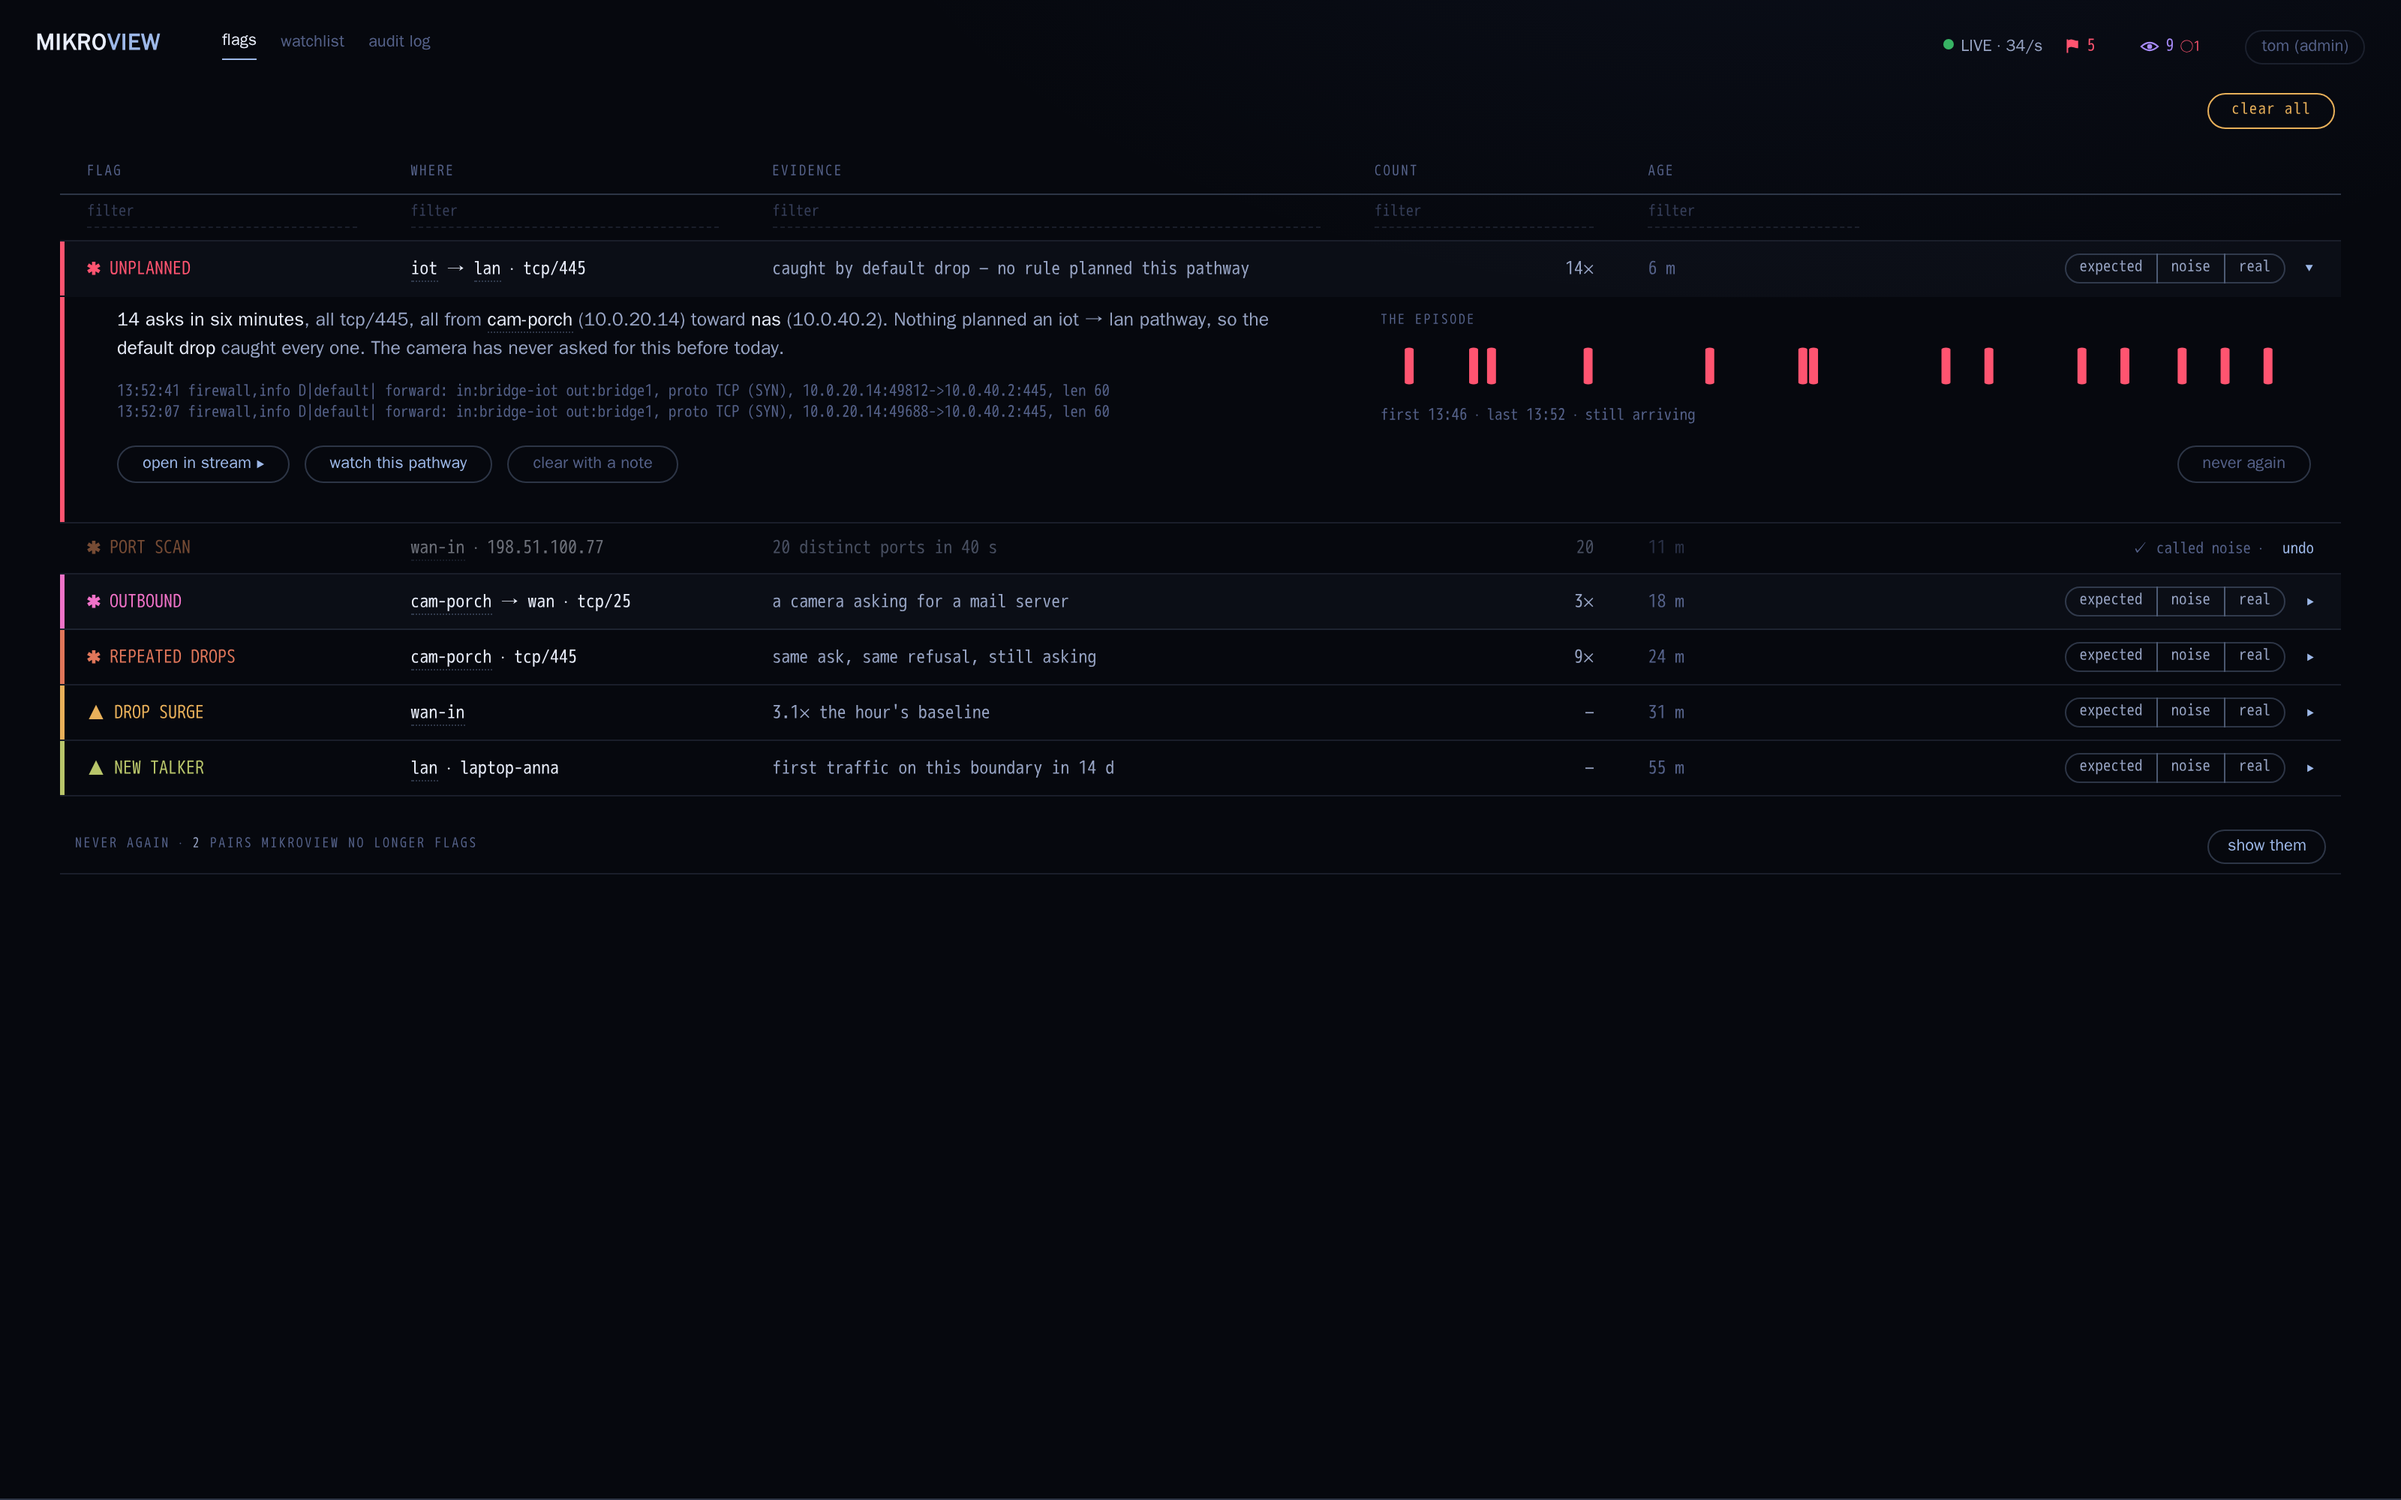
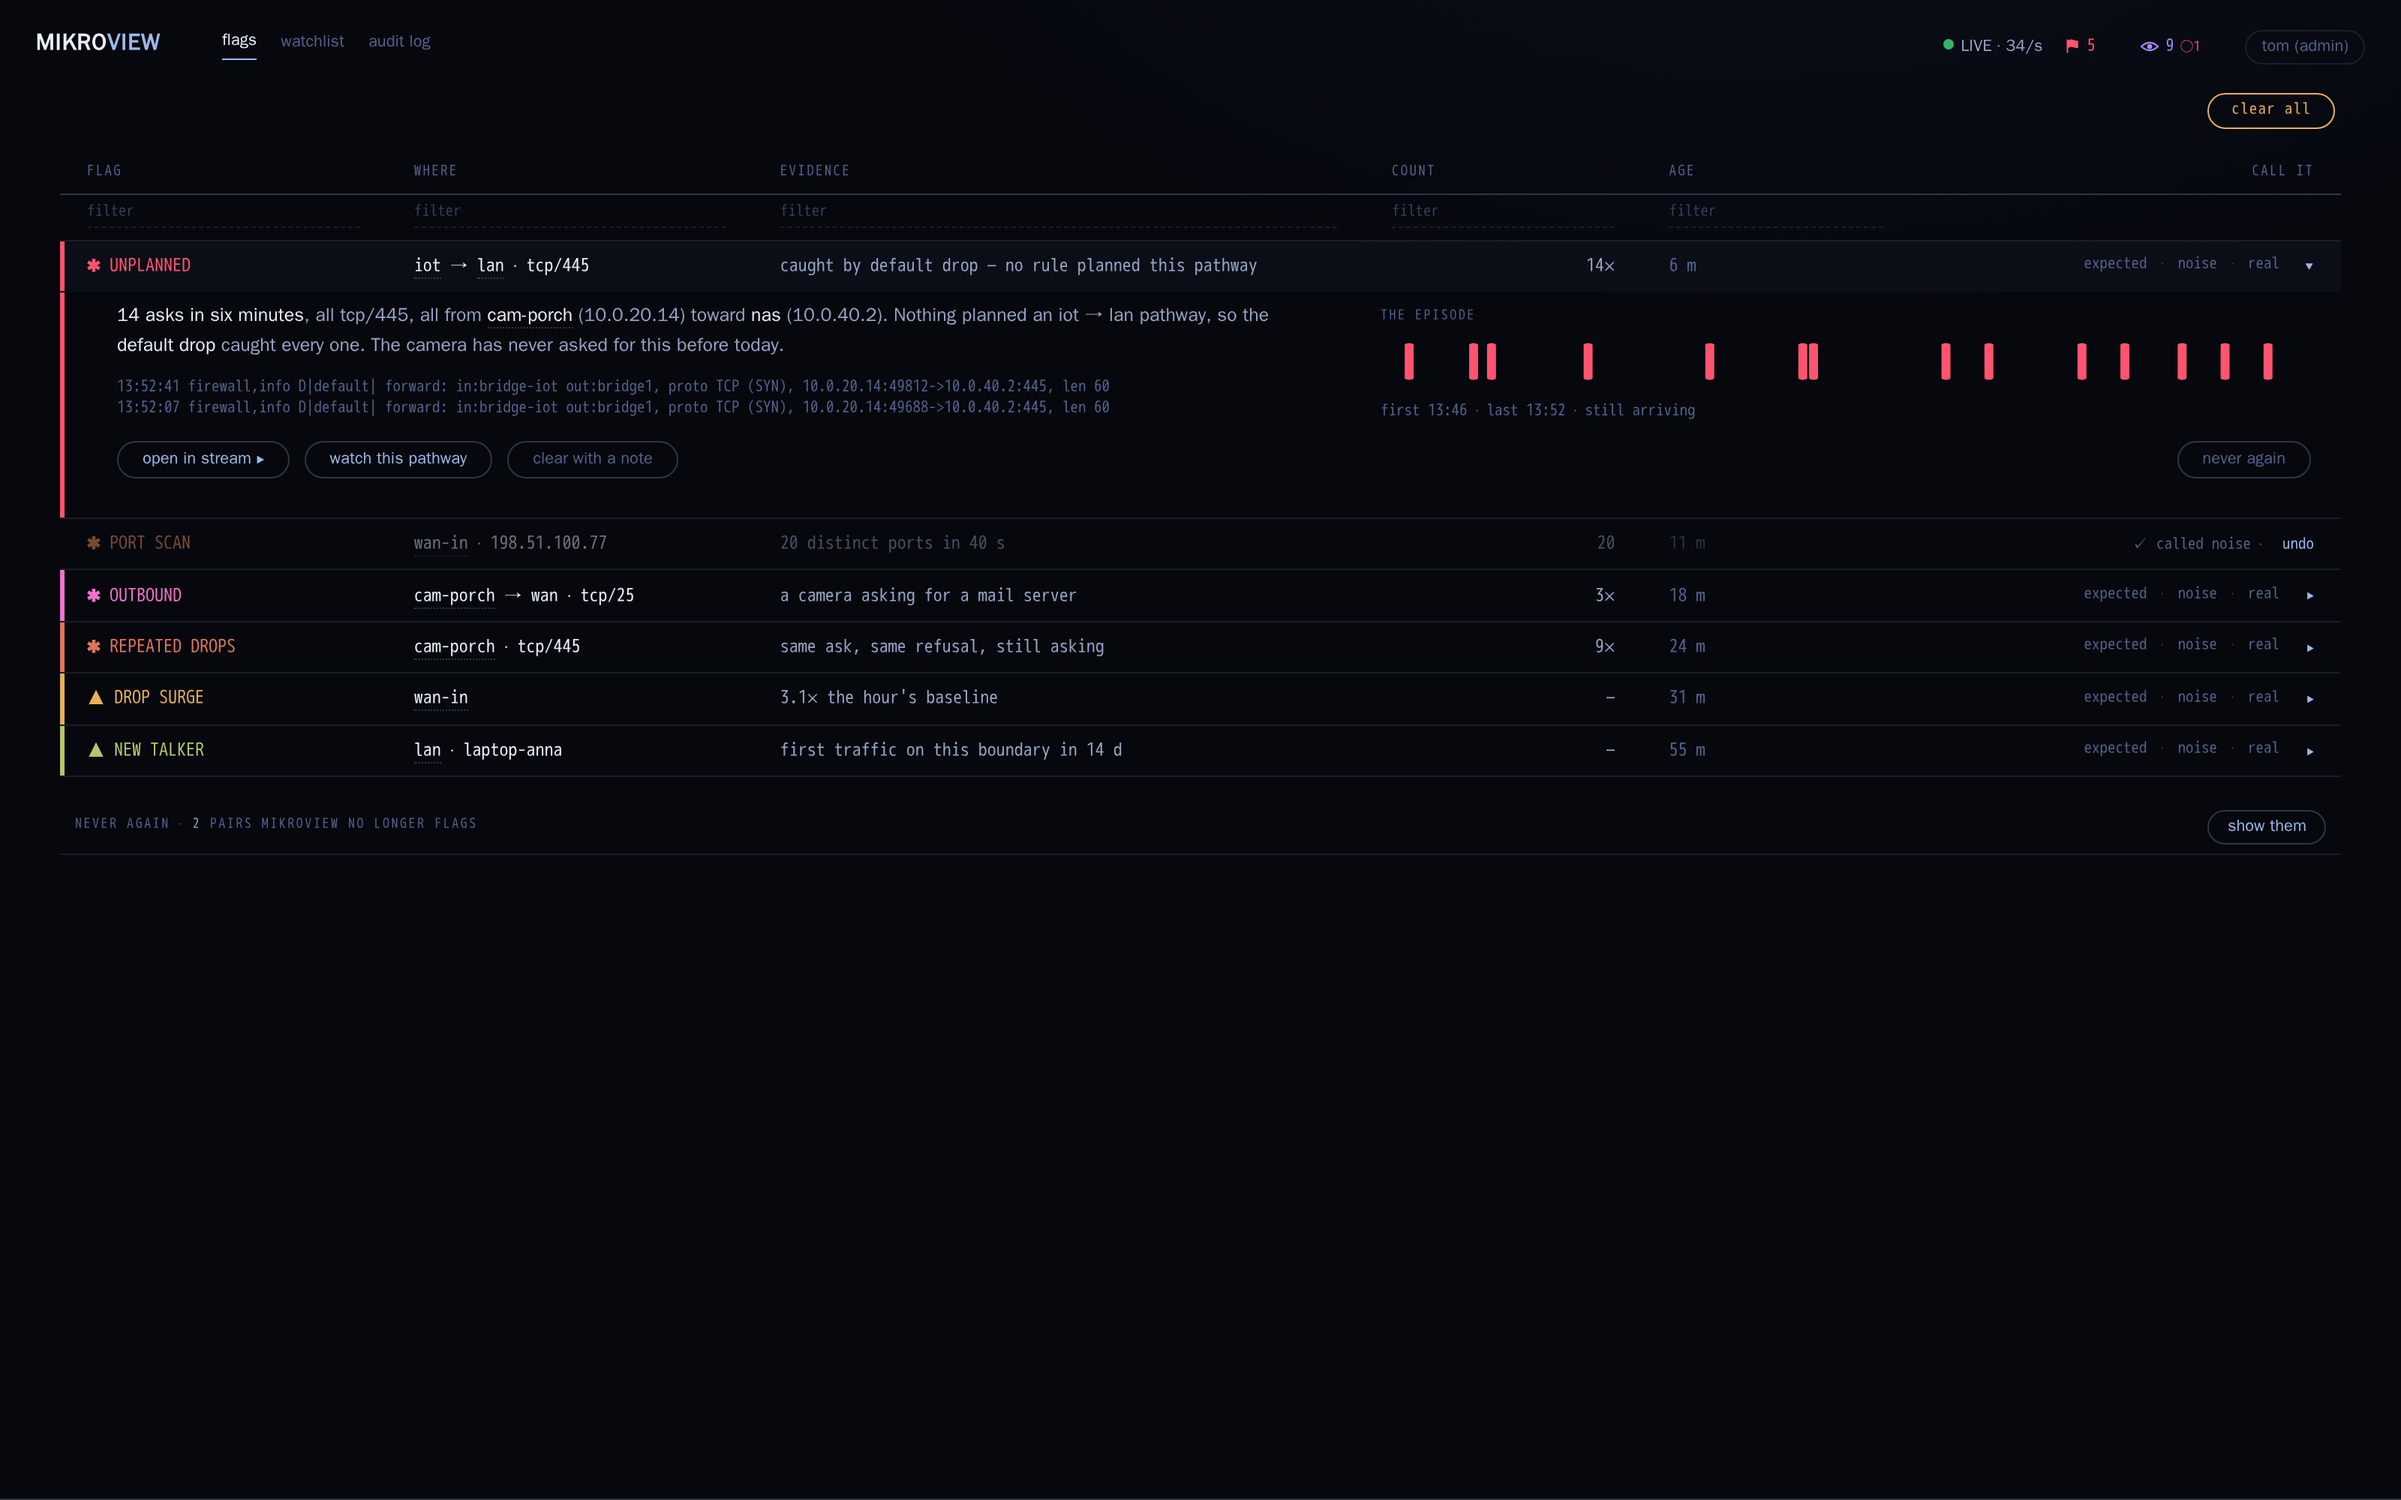
docs(design): round 35 — the row's verdicts as quiet text verbs (#691)
Owner asked for the row trio to sit better with the docket's language.
Three bordered pills a row become dot-separated mono verbs under a
CALL IT column head, lifted by hover and lit by the accent when chosen;
no filter under that head.

diff --git a/docs/design/concepts/round-35/verdicts-in-row.html b/docs/design/concepts/round-35/verdicts-in-row.html
@@ -657,14 +657,18 @@
      round 34: verdicts and exclusions — a verdict is how a flag is
      cleared; an exclusion is a verdict that outlives the flag
      ============================================================ */
-  /* round 35: the verdict trio lives in the row, before the caret — one click, no drawer */
+  /* round 35: the verdict trio lives in the row, before the caret — one click, no drawer.
+     Three quiet verbs in the row's own mono, dot-separated like the chrome, lifted by the
+     row's hover and lit by the accent when chosen; no boxes — the docket speaks in text */
   .panel td.vc { text-align: right; white-space: nowrap; }
-  .vrow { display: inline-flex; vertical-align: middle; margin-right: 14px; }
-  .vrow button.v { font: 10.5px var(--mono); color: var(--ink-2); background: transparent; border: 1px solid var(--hair-2); border-radius: 0; margin-left: -1px; padding: 1px 9px; cursor: pointer; line-height: 16px; }
-  .vrow button.v:first-child { border-radius: 999px 0 0 999px; margin-left: 0; }
-  .vrow button.v:last-child { border-radius: 0 999px 999px 0; }
-  .vrow button.v:hover { color: var(--accent); border-color: var(--accent); position: relative; }
-  .vrow button.v.on { color: var(--accent); border-color: rgba(167, 139, 250, 0.55); background: rgba(167, 139, 250, 0.08); position: relative; }
+  .vrow { display: inline-flex; align-items: baseline; vertical-align: middle; margin-right: 18px; }
+  .vrow button.v { font: 10.5px var(--mono); color: var(--ink-3); background: transparent; border: 0; border-bottom: 1px dotted transparent; padding: 0; cursor: pointer; line-height: 16px; transition: color 0.15s; }
+  .vrow button.v + button.v::before { content: '·'; color: var(--ink-3); margin: 0 9px; opacity: 0.6; }
+  tr.frow:hover .vrow button.v { color: var(--ink-2); }
+  .vrow button.v:hover { color: var(--accent); border-bottom-color: var(--accent); }
+  .vrow button.v.on { color: var(--accent); }
+  .vrow button.v.on::after { content: ''; display: inline-block; width: 5px; height: 5px; border-radius: 50%; background: var(--accent); margin-left: 6px; vertical-align: 1px; }
+  .panel th.vc { text-align: right; }
   .dwr-acts .never { margin-left: auto; }
   .dwr-acts .never.armed { color: var(--alarm); border-color: var(--alarm); }
   /* a flag that has been called: dims in place, keeps its row, offers undo until you leave the tab */
@@ -717,7 +721,7 @@
   </div>
   <div class="panel" id="p-flags" aria-label="Open flags, newest first">
     <table>
-      <thead><tr><th>flag</th><th>where</th><th>evidence</th><th>count</th><th>age</th><th></th></tr></thead>
+      <thead><tr><th>flag</th><th>where</th><th>evidence</th><th>count</th><th>age</th><th class="vc">call it</th></tr></thead>
       <tbody>
         <tr class="frow ft-unplanned open" data-d="d1"><td class="fmark">✱ UNPLANNED</td><td class="k"><a class="wl" href="#s3" onclick="descend()">iot</a> → <a class="wl" href="#s3" onclick="descend()">lan</a> · tcp/445</td><td>caught by default drop — no rule planned this pathway</td><td class="num">14×</td><td class="t">6 m</td><td class="vc"><span class="vrow"><button class="v" data-v="expected">expected</button><button class="v" data-v="noise">noise</button><button class="v" data-v="real">real</button></span><span class="openc">▸</span></td></tr>
         <tr class="drawer open ft-unplanned" id="d1"><td colspan="6"><div class="dwr"><div class="dwr-in">
@@ -1131,7 +1135,7 @@
     fr.className = 'filters';
     heads.forEach(function (h) {
       var td = fr.insertCell();
-      if (!h.textContent.trim()) return;
+      if (!h.textContent.trim() || h.classList.contains('vc')) return;
       var inp = document.createElement('input');
       inp.placeholder = 'filter';
       inp.setAttribute('aria-label', 'Filter by ' + h.textContent.trim());

diff --git a/docs/design/concepts/round-35/README.md b/docs/design/concepts/round-35/README.md
@@ -12,10 +12,15 @@ exclusion is a verdict that outlives the flag** — and gains a corollary:
 
 ## What moved
 
-1. **The trio is the row's last cell**, before the caret: `expected` ·
-   `noise` · `real`, in the row's own mono at `ink-2`, one segmented
-   control, lit in the accent on hover and when chosen. Every flag row
-   carries it, so the column reads as a column. A click on a pill is a
+1. **The trio is the row's last cell**, before the caret, under its
+   own column head `CALL IT`: `expected · noise · real` as three quiet
+   verbs in the row's mono at `ink-3`, dot-separated the way the chrome
+   is. No boxes — the docket speaks in text and dotted underlines, and
+   three boxed pills a row were the heaviest thing on the page. The
+   row's hover lifts them to `ink-2`; a verb's own hover takes the
+   accent and the where-link's dotted underline; the chosen one keeps
+   the accent with a small filled dot after it. No filter under this
+   head: verdicts are given, not searched. A click on a verb is a
    verdict and never toggles the drawer (`closest('a, button')` in the
    row's click guard). `POST /api/flags/{id}/verdict {verdict}`.
 2. **Called expected or noise** dims the row where it stands, and the
@@ -43,9 +48,13 @@ round 34's README still apply.
 `let-it-fire-again`. Calls in `called-noise` and `called-expected` are
 made with the drawer closed.
 
-No new data palette: the row pills are round 30's pills at the row's
-size — the dataviz validator has nothing new to check.
+No new data palette: the verbs are the row's own mono in `ink-3`,
+`ink-2` and the accent — the dataviz validator has nothing new to
+check.
 
 ## Verdicts
 
-(none yet)
+2026-09-01, owner, on the first cut (three bordered pills a row): "Could
+we make this more aesthetically pleasing in keeping with Mikroview's new
+UI?" — reworked in place to the quiet text verbs above, before any
+acceptance.
